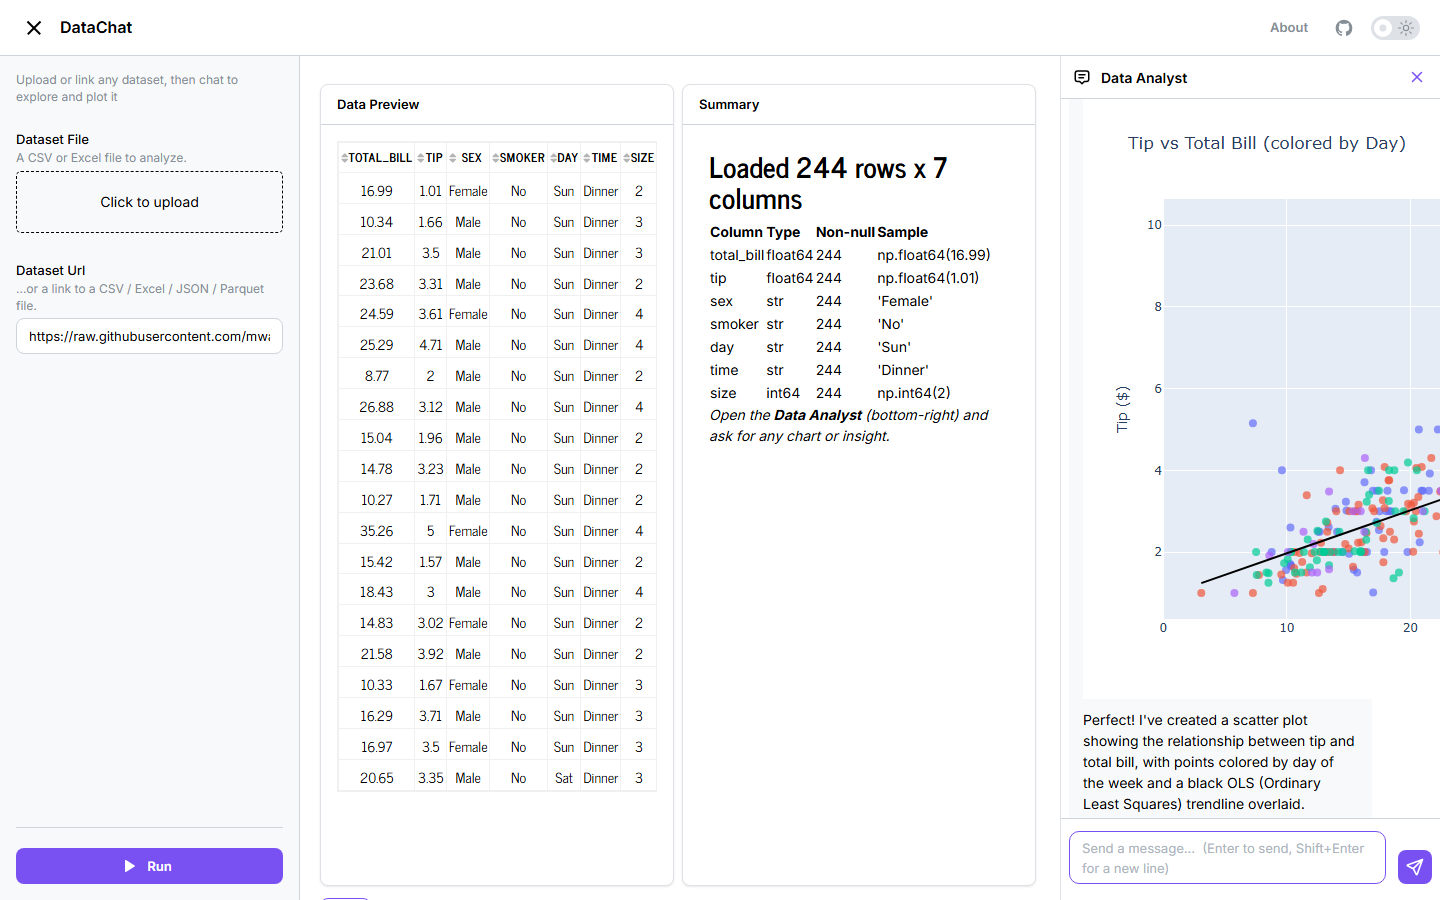
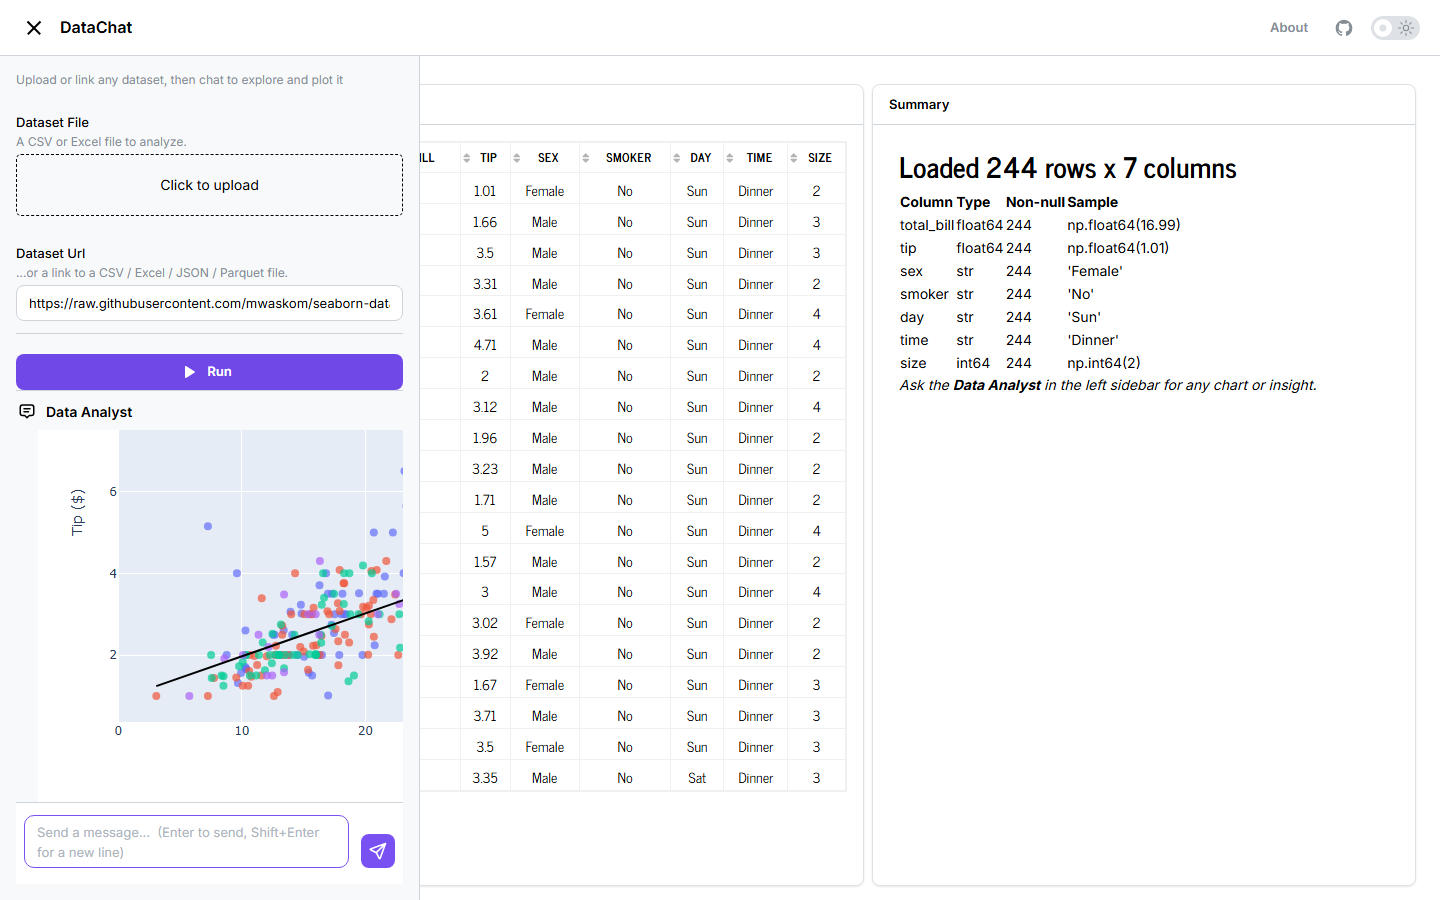
docs: refresh hero for the sidebar layout + fix stale 'bottom-right' copy
The analyst chat now lives in the left sidebar (chat_agent_position=sidebar),
so the summary hint and hero screenshot are updated to match. capture_hero
no longer clicks a toggle (chat is always visible in the sidebar).

Claude-Session: https://claude.ai/code/session_01E6Bb7GNN8KmQzVt2Ws6rEM

diff --git a/analyst/data.py b/analyst/data.py
@@ -105,5 +105,5 @@ def summary_markdown(df: pd.DataFrame) -> str:
         lines.append(f"| {c} | {df[c].dtype} | {df[c].notna().sum():,} | {s} |")
     if df.shape[1] > 40:
         lines.append(f"| ... | | | *(+{df.shape[1] - 40} more columns)* |")
-    lines.append("\n*Open the **Data Analyst** (bottom-right) and ask for any chart or insight.*")
+    lines.append("\n*Ask the **Data Analyst** in the left sidebar for any chart or insight.*")
     return "\n".join(lines)

diff --git a/scripts/capture_hero.py b/scripts/capture_hero.py
@@ -37,7 +37,7 @@ with sync_playwright() as p:
         page.wait_for_timeout(6000)
     except Exception:
         pass
-    page.click("#chat-sidecar-toggle")              # open the Data Analyst
+    # The analyst chat is stacked in the left sidebar (always visible) — no toggle.
     page.wait_for_selector("#chat-input", timeout=15000)
     page.fill("#chat-input", ASK)
     page.press("#chat-input", "Enter")